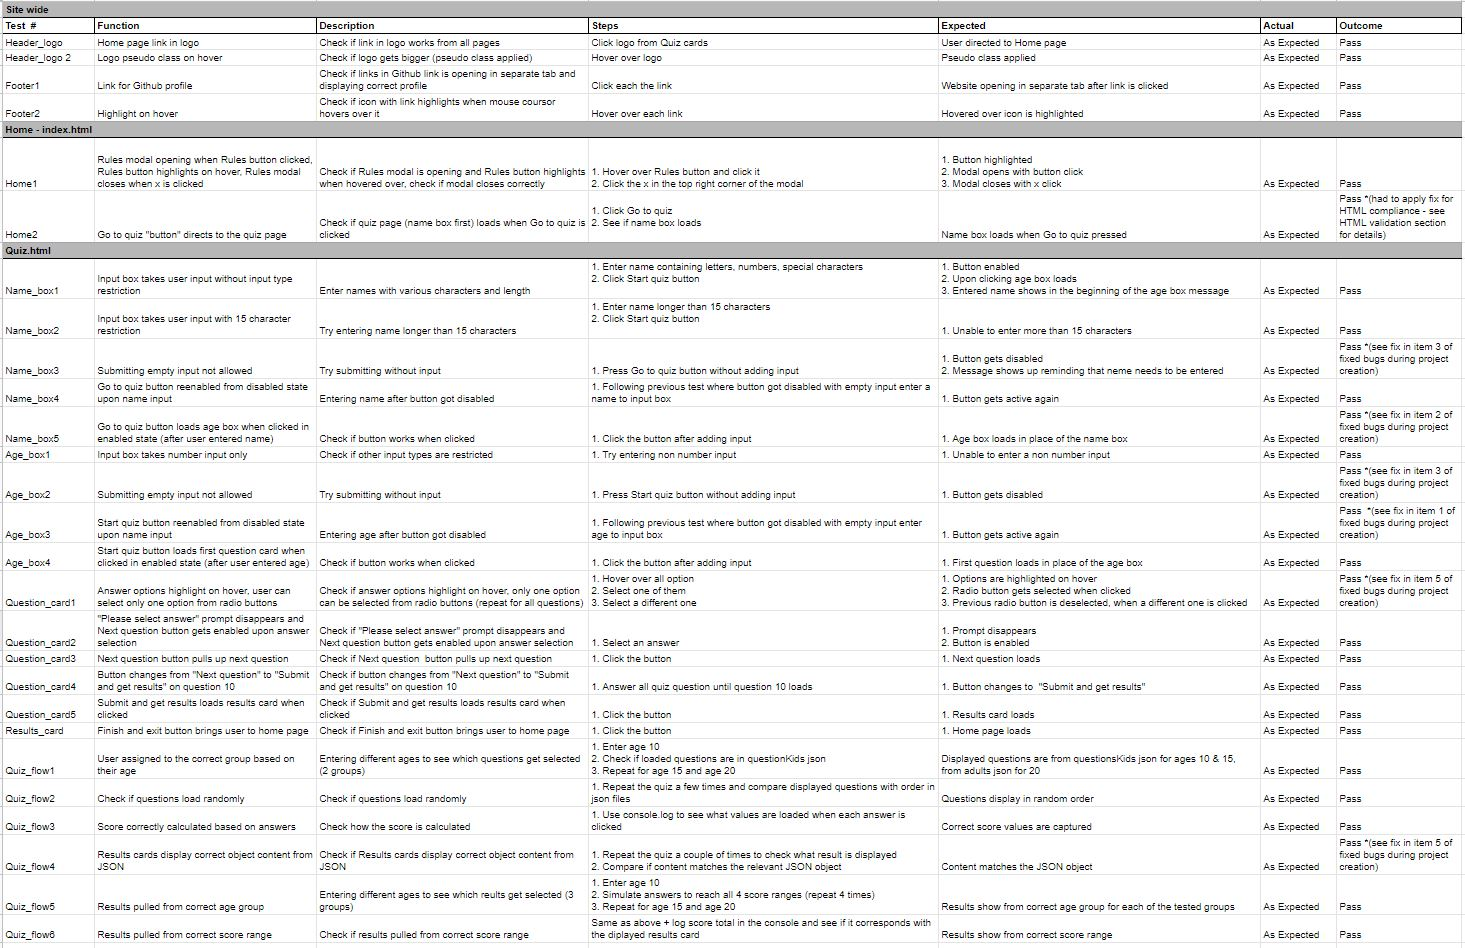
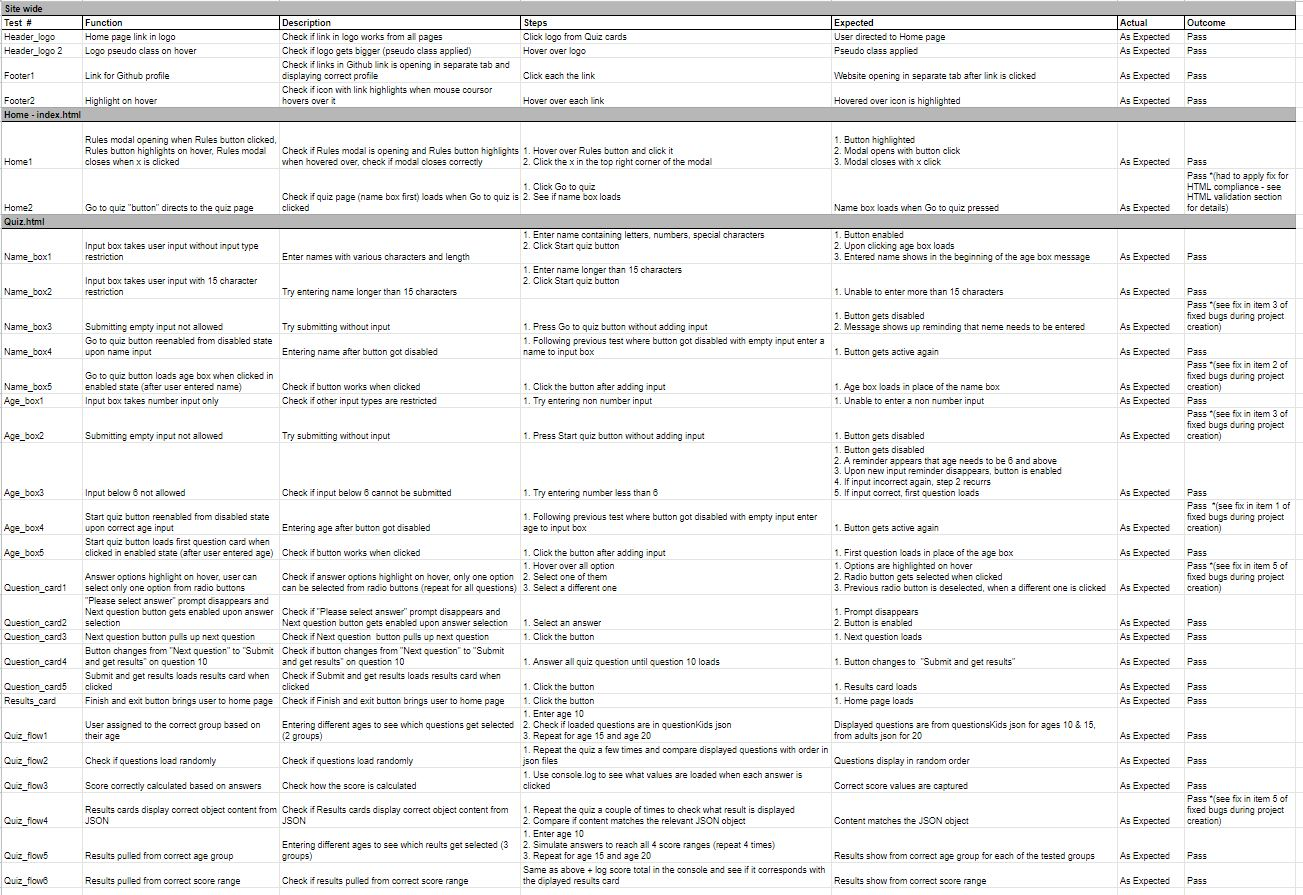
add age validation logic for input below 6

Changed region(s): [[0.0, 0.0, 1.0, 0.9955]]

diff --git a/assets/js/quiz.js b/assets/js/quiz.js
@@ -48,7 +48,7 @@ function showAgeBox() {
     if (userName.value === "") {
         introNextButton.disabled = true;
         document.getElementById("name-reminder").style.display = "block";
-        userName.addEventListener("input", function enableButton (){
+        userName.addEventListener("input", function enableButton() {
             introNextButton.disabled = false;
             document.getElementById("name-reminder").style.display = "none";
         });
@@ -69,11 +69,21 @@ function showAgeBox() {
 
 function validateAgeInput() {
 
-     if (userAge.value === "") {
+    if (userAge.value === "") {
         startQuizButton.disabled = true;
-        userAge.addEventListener("input", function enableButton (){
+        userAge.addEventListener("input", function enableButton() {
             startQuizButton.disabled = false;
-        });} else {startQuiz();}
+        });
+    } else if (userAge.value < 6) {
+        startQuizButton.disabled = true;
+        document.getElementById("age-reminder").style.display = "block";
+        userAge.addEventListener("input", function enableButton() {
+            startQuizButton.disabled = false;
+            document.getElementById("age-reminder").style.display = "none";
+        });
+    } else {
+        startQuiz();
+    }
 }
 
 
@@ -113,24 +123,24 @@ fetch("assets/js/resultsKids.json")
 let resultsTeens = [];
 
 
-    fetch("assets/js/resultsTeens.json")
-        .then((res) => {
-            return res.json();
-        })
-        .then((loadedResults) => {
-            resultsTeens = loadedResults;
-        });
+fetch("assets/js/resultsTeens.json")
+    .then((res) => {
+        return res.json();
+    })
+    .then((loadedResults) => {
+        resultsTeens = loadedResults;
+    });
 
-        let resultsAdults = [];
+let resultsAdults = [];
 
 
-        fetch("assets/js/resultsAdults.json")
-            .then((res) => {
-                return res.json();
-            })
-            .then((loadedResults) => {
-                resultsAdults = loadedResults;
-            });
+fetch("assets/js/resultsAdults.json")
+    .then((res) => {
+        return res.json();
+    })
+    .then((loadedResults) => {
+        resultsAdults = loadedResults;
+    });
 
 
 //maximum amount of questions a user will get
@@ -175,14 +185,14 @@ function getNextQuestion() {
         0
     );
 
-    
+
     /**
      * resets the chosen answer from previous question 
      */
     for (let i of radios) {
         nextQuestionButton.addEventListener("click", () => {
             i.checked = false;
-            });
+        });
     }
 
 
@@ -220,9 +230,9 @@ function getNextQuestion() {
             }
         });
     }
-/**
- * changes the button on last question to suggest getting results
- */
+    /**
+     * changes the button on last question to suggest getting results
+     */
     if (questionCounter === maxQuestionCount) {
         nextQuestionButton.innerText = "Submit and get results";
     }
@@ -249,7 +259,7 @@ function getResults() {
 
     if (userAge.value <= 12) {
         availableResults = [...resultsKids];
-    } else if (userAge.value > 12 && userAge.value < 18){
+    } else if (userAge.value > 12 && userAge.value < 18) {
         availableResults = [...resultsTeens];
     } else {
         availableResults = [...resultsAdults];

diff --git a/index.html b/index.html
@@ -50,16 +50,13 @@
                     <span class="close-modal">&times;</span>
                     <h2>Rules</h2>
                     <p>Press Go to Quiz to start</p>
-                    <p>When prompted enter your name and age to allow us personalize your experience.
-                    </p>
+                    <p>Next enter your name and age to allow us personalize your experience. The quiz is
+                        intended for ages from 6 years up.</p>
                     <p>Select one of the three answers to the questions - Yes, No, Sometimes - that you think describes
                         you best. Once you click "Next question" button, you cannot go back. Selecting the previous
                         arrow in your browser window will redirect you to the Home page.
                     </p>
-                    <p>For most accurate results try going with your first instinct instead of analyzing too much which
-                        answer
-                        to select</p>
-                    <p>If at any time you want to go back to home page, just click the PopPersonality logo above</p>
+                    <p>If at any time you want to go back to home page, just click the PopPersonality logo above.</p>
                 </div>
             </div>
             <div class="container">

diff --git a/quiz.html b/quiz.html
@@ -35,13 +35,16 @@
             <div id="name-box" class="container">
                 <label for="name-input">Please tell us your name to continue</label><br>
                 <input type="text" id="name-input" maxlength="15"><br>
-                <div id="name-reminder" class="hidden">It's not possible to continue without entering a name</div>
+                <div id="name-reminder" class="hidden reminder">It's not possible to continue without entering a name
+                </div>
                 <button type="submit" id="intro-next" class="control-btn">Next</button>
             </div>
             <!--Age input box-->
             <div id="age-box" class="container hidden">
                 <label id="age-label" for="age-input">Please tell us your age</label><br>
                 <input type="number" id="age-input" placeholder="Enter a number"><br>
+                <div id="age-reminder" class="hidden reminder">This quiz is intended for persons from 6 years of age -
+                    please enter your age accordingly</div>
                 <button type="submit" class="control-btn" id="start-quiz">Start quiz</button>
             </div>
 

diff --git a/assets/js/script.js b/assets/js/script.js
@@ -10,8 +10,8 @@ rulesClose.addEventListener("click", closeRulesModal);
 
 /** 
  * Opens rules modal when user clicks Rules button
-*/
-function openRulesModal () {
+ */
+function openRulesModal() {
     rulesModal.style.display = "block";
     document.getElementById("description-box").style.display = "none";
     document.getElementById("rules-btn-container").style.display = "none";
@@ -19,10 +19,9 @@ function openRulesModal () {
 
 /** 
  * Closes rules modal when user clicks x
-*/
-function closeRulesModal () {
+ */
+function closeRulesModal() {
     rulesModal.style.display = "none";
     document.getElementById("description-box").style.display = "block";
     document.getElementById("rules-btn-container").style.display = "block";
 }
-

diff --git a/assets/css/styles.css b/assets/css/styles.css
@@ -207,10 +207,11 @@ footer {
     cursor: pointer;
 }
 
-#name-reminder {
+.reminder {
     font-size: 1.5rem;
     font-weight: bold;
 }
+
 
 /*Question card*/
 

diff --git a/README.md b/README.md
@@ -311,5 +311,11 @@ Character images were taken from fandom wikis. Background image is a free to use
 
 <h2>Content</h2>
 Content of the website is fictional and was created for educational purposes of building the website by it's author (Aga Tomaszewska). It is not based on any psychological or personality research, results are generated mathematically based on random score question.
-
-<h2>Copyright disclaimer?</h2>
+<h3>Characters</h3>
+Characters used on the results cards belong to the below shows and production companies:
+<ul>
+    <li>Disney: Ghostforce (Chaorion), Frozen (Elsa), Lion Guard (Kion), Pirates of the Caribbean (Jack Sparrow), Star Wars (Luke Skywalker & Jyn Erso)</li>
+    <li>Netflix: Stranger Things (Eleven), Wednesday (Enid), The Witcher (Geralt)</li>
+    <li>MGM: Vikings (Lagertha)</li>
+    <li>Universal Pictures (via Illumination)</li>
+</ul>
